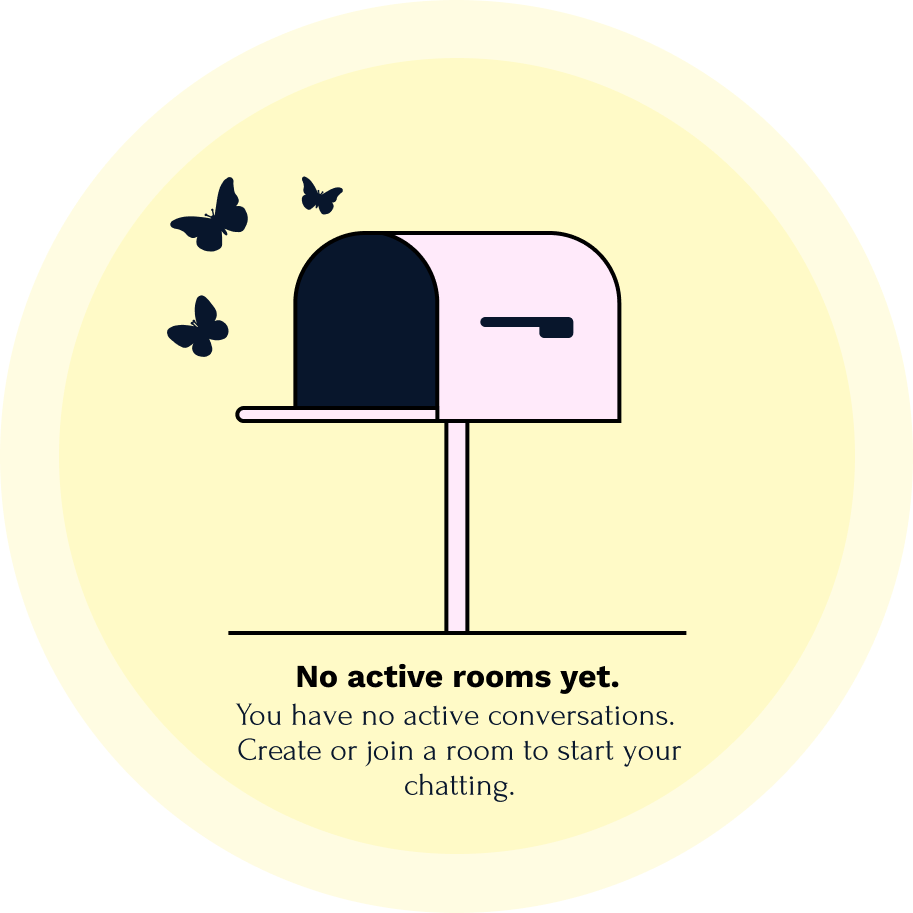
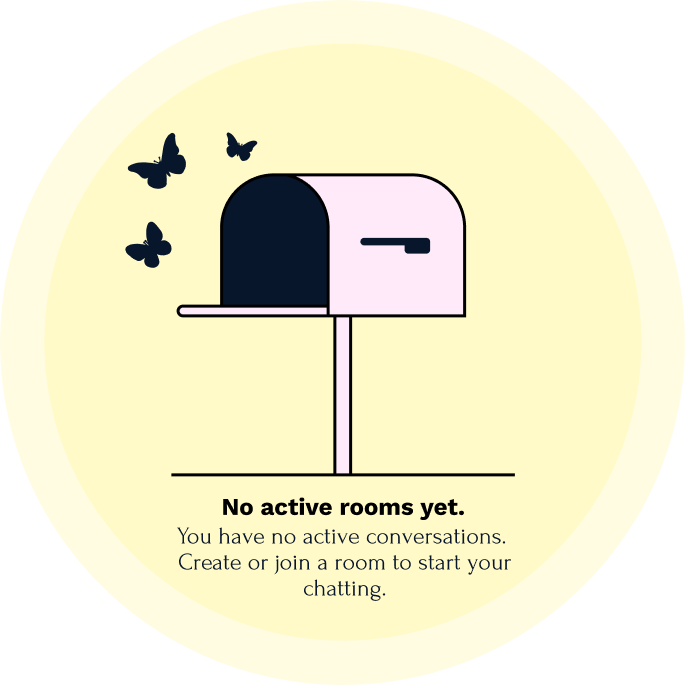
Shows a image when there are no messages in conversation

Changed region(s): [[0.2453, 0.7358, 0.7358, 0.8891], [0.4905, 0.4599, 0.5212, 0.6745]]

diff --git a/client/src/components/ChatWindow.tsx b/client/src/components/ChatWindow.tsx
@@ -4,12 +4,14 @@ import { useSocket } from "../context/SocketContext";
 
 function ChatWindow() {
   const [message, setMessage] = useState("");
+  const [showImage, setShowImage] = useState(true);
   const { sendMessage, messages, room } = useSocket();
 
-  const handlesubmit = (e: React.FormEvent<HTMLFormElement>) => {
+  const handleSendMessage = (e: React.FormEvent<HTMLFormElement>) => {
     e.preventDefault();
     sendMessage(message);
     setMessage("");
+    setShowImage(false);
   };
 
   return (
@@ -23,10 +25,17 @@ function ChatWindow() {
         <img
           src="/src/assets/yellowmailboxroom.png"
           alt="No active chat"
-          style={{ width: "100%", height: "100%", objectFit: "contain" }}
+          style={{ width: "80%", height: "80%", objectFit: "contain" }}
         />
       ) : (
         <>
+          {showImage && (
+            <img
+              src="/src/assets/NoMessages.png"
+              alt="No messages"
+              style={{ width: "80%", height: "80%", objectFit: "contain" }}
+            />
+          )}
           <h1>The Chat</h1>
           <ul>
             {messages.map((message, i) => (
@@ -41,7 +50,9 @@ function ChatWindow() {
               alignItems: "flex-end",
               flex: 1,
             }}>
-            <form onSubmit={handlesubmit} style={{ display: "flex", flex: 1 }}>
+            <form
+              onSubmit={handleSendMessage}
+              style={{ display: "flex", flex: 1 }}>
               <TextField
                 id="outlined-messages-input"
                 name="messages"
